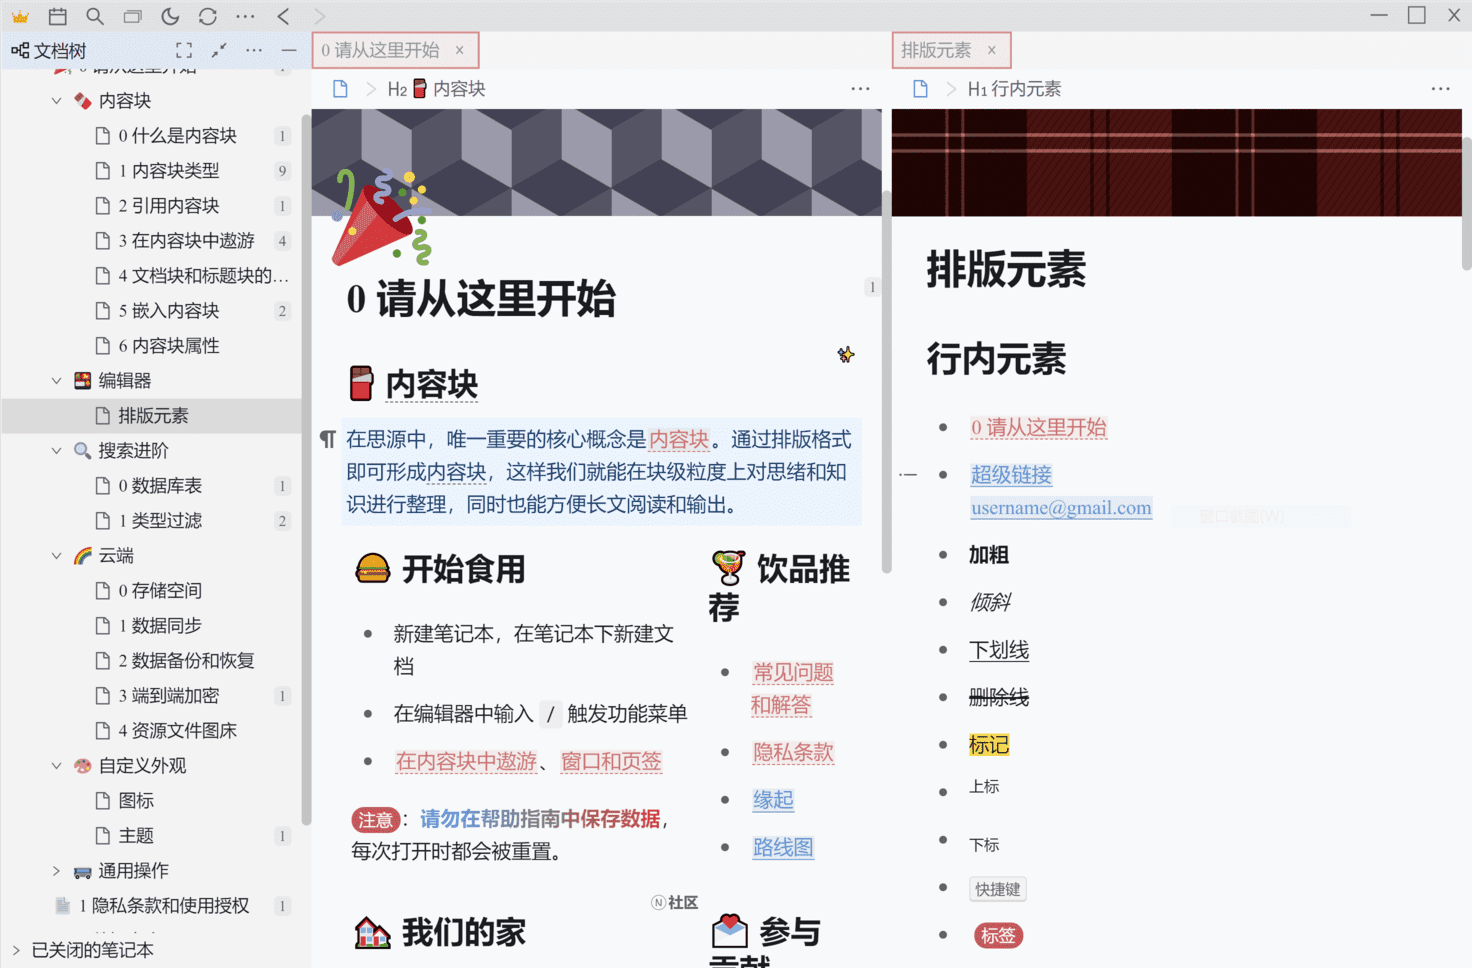
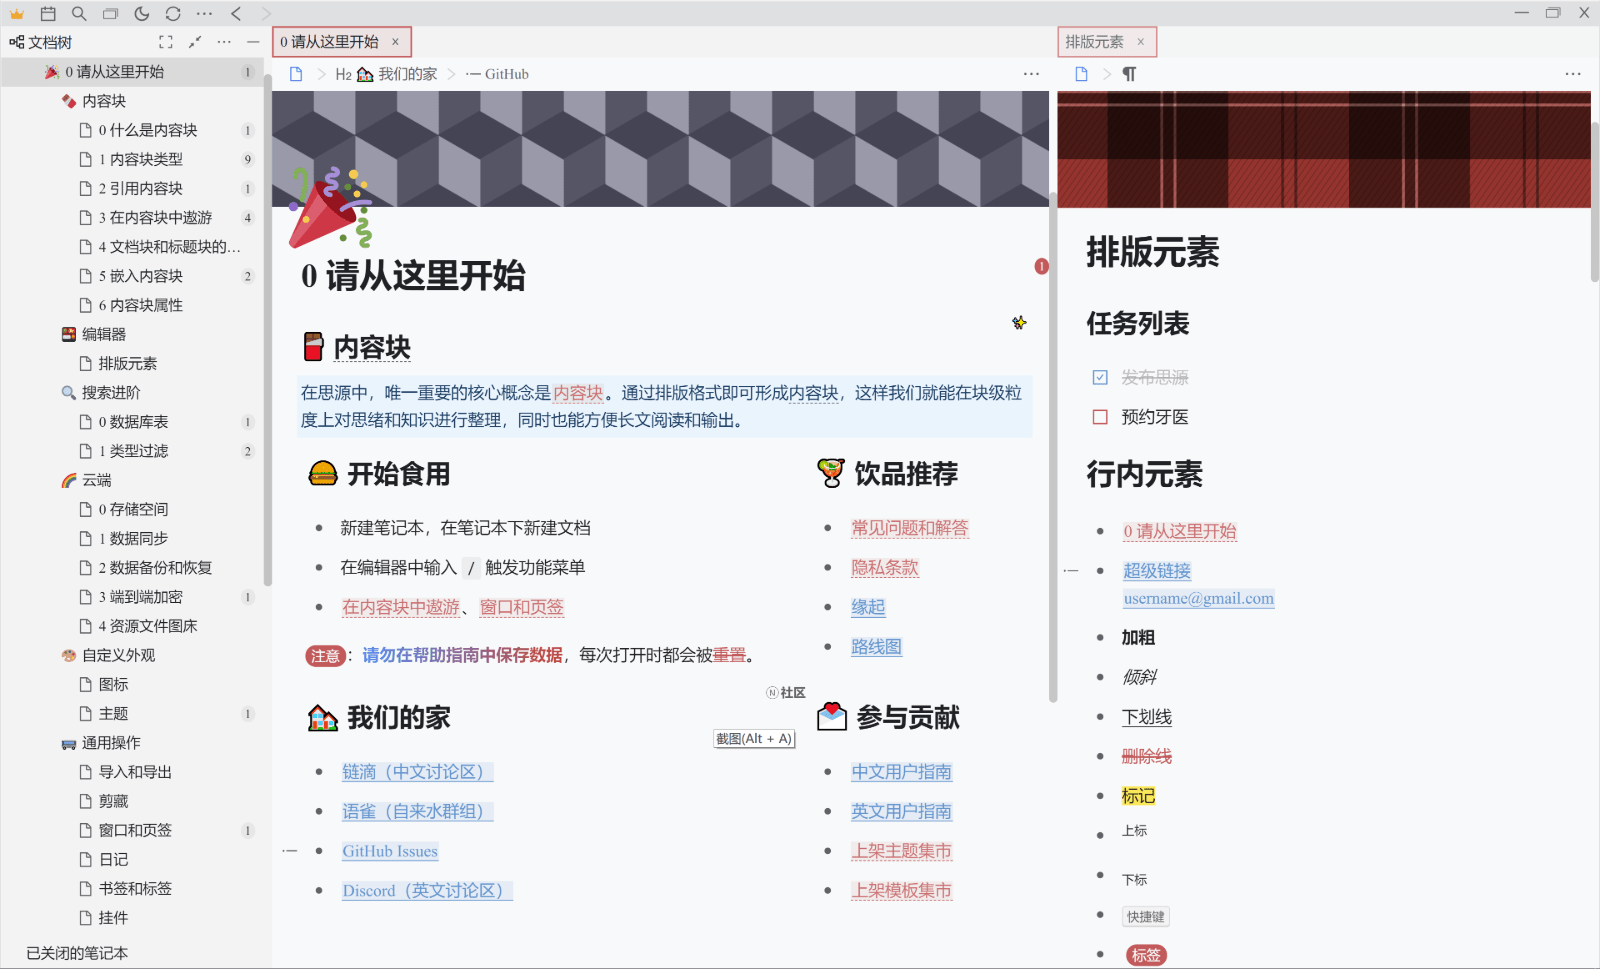
更新Relue-light主题

Changed region(s): [[0.0, 0.0, 1.0, 1.0], [0.9375, 0.0, 1.0, 0.031]]

diff --git a/theme.css b/theme.css
@@ -199,7 +199,7 @@
   background-color: #cf5659;
 }
 
-/* ################ 页签 ############# */
+/* 页签 */
 .layout-tab-bar .item--focus {
   box-shadow: 0px 0px 0px 1.5px #cf5659 inset;
   background-color: #cc707021 !important;
@@ -215,5 +215,47 @@
   max-width: none;
 }
 .layout-tab-bar .item__text::after {
-  background: #00000000 !important;
+  background: transparent !important;
+}
+
+/* 引用块 */
+.b3-list--files .b3-list-item .counter,
+.b3-list--files .b3-list-item .protyle-attr--refcount {
+  background-color: var(--b3-list-hover);
+  color: var(--b3-theme-on-background) !important;
+}
+.counter,
+.protyle-attr--refcount {
+  border-radius: 50%;
+  background-color: #cf5659;
+  color: #ffffff !important;
+}
+
+/* 删除线 */
+.b3-typography s,
+.protyle-wysiwyg s {
+  color: #cf5659;
+}
+
+/* 有序列表 */
+.protyle-wysiwyg [data-node-id].li > .protyle-action--order:after {
+  border-radius: 50%;
+}
+.protyle-wysiwyg [data-node-id].li > .protyle-action:after {
+  height: 18px;
+  width: 18px;
+  margin: -9px 0 0 -9px;
+}
+
+/* 任务列表 */
+.protyle-task--done {
+  color: #aaaaaabb;
+  text-decoration: line-through;
+}
+.protyle-task--done svg {
+  color: #5695cf !important;
+}
+
+.protyle-action--task svg {
+  color: #cf5659;
 }
